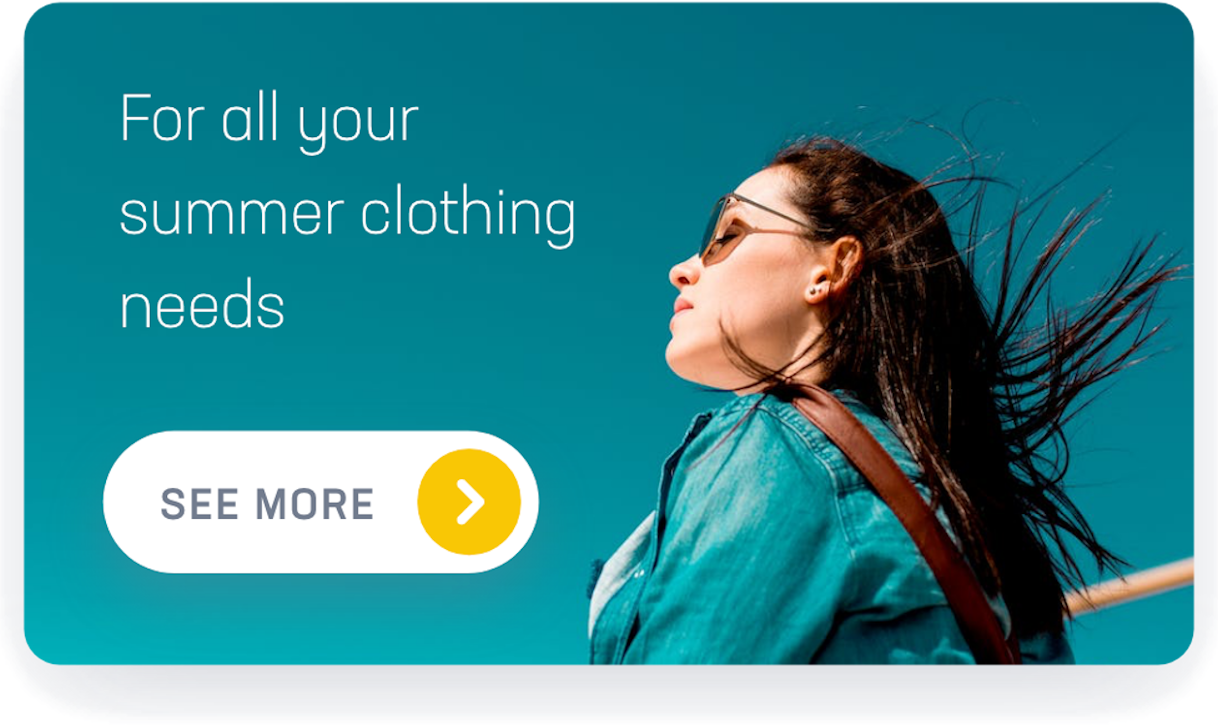
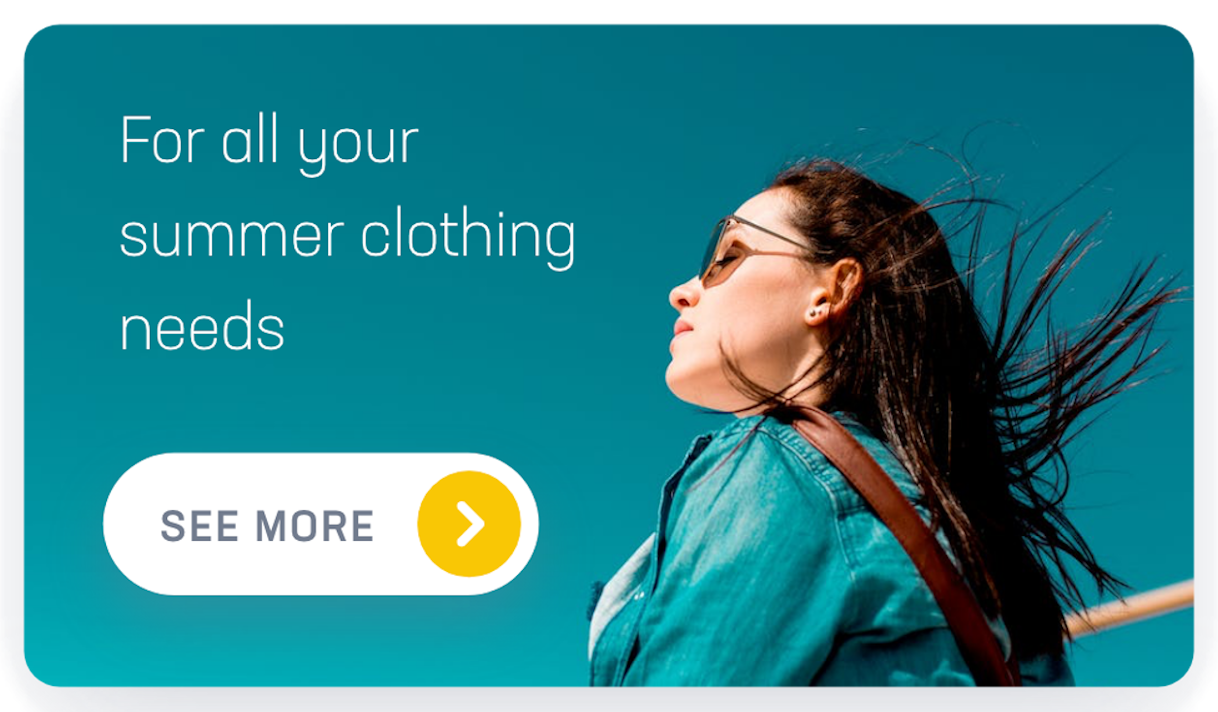
.

diff --git a/lib/pages/home.dart b/lib/pages/home.dart
@@ -173,27 +173,69 @@ class _HomeState extends State<HomePage> {
                         ));
                       });
 
-                      return CarouselSlider(
-                        items: cards,
-                        options: CarouselOptions(
-                          height:
-                              MediaQuery.of(context).size.width * (265 / 406) -
-                                  10,
-                          aspectRatio: 406 / 265,
-                          viewportFraction: 0.9,
-                          // enlargeStrategy: CenterPageEnlargeStrategy.height,
-                          initialPage: 0,
-                          enableInfiniteScroll: false,
-                          reverse: false,
-                          autoPlayInterval: Duration(seconds: 3),
-                          autoPlayAnimationDuration:
-                              Duration(milliseconds: 800),
-                          autoPlayCurve: Curves.fastOutSlowIn,
-                          enlargeCenterPage: false,
-                          // onPageChanged: callbackFunction,
-                          scrollDirection: Axis.horizontal,
+                      return Column(children: <Widget>[
+                        CarouselSlider(
+                          items: cards,
+                          options: CarouselOptions(
+                            height: MediaQuery.of(context).size.width *
+                                    (725 / 1218) -
+                                10,
+                            aspectRatio: 1218 / 725,
+                            viewportFraction: 0.9,
+                            // enlargeStrategy: CenterPageEnlargeStrategy.height,
+                            initialPage: 0,
+                            enableInfiniteScroll: false,
+                            reverse: false,
+                            autoPlayInterval: Duration(seconds: 3),
+                            autoPlayAnimationDuration:
+                                Duration(milliseconds: 800),
+                            autoPlayCurve: Curves.fastOutSlowIn,
+                            enlargeCenterPage: false,
+                            // onPageChanged: callbackFunction,
+                            scrollDirection: Axis.horizontal,
+                          ),
                         ),
-                      );
+                        Container(
+                          padding: EdgeInsets.symmetric(horizontal: 25),
+                          child: Row(
+                            children: <Widget>[
+                              Container(
+                                height: 135,
+                                width:
+                                    (MediaQuery.of(context).size.width - 72) /
+                                        3,
+                                color: Colors.red,
+                                child: Text(stateDashboard
+                                    .dashboard.highlightsProducts[0].name),
+                              ),
+                              SizedBox(
+                                width: 11,
+                              ),
+                              Container(
+                                height: 135,
+                                width:
+                                    (MediaQuery.of(context).size.width - 72) /
+                                        3,
+                                color: Colors.red,
+                                child: Text(stateDashboard
+                                    .dashboard.highlightsProducts[1].name),
+                              ),
+                              SizedBox(
+                                width: 11,
+                              ),
+                              Container(
+                                height: 135,
+                                width:
+                                    (MediaQuery.of(context).size.width - 72) /
+                                        3,
+                                color: Colors.red,
+                                child: Text(stateDashboard
+                                    .dashboard.highlightsProducts[2].name),
+                              ),
+                            ],
+                          ),
+                        )
+                      ]);
                     } else {
                       return Center(
                         child: Column(
